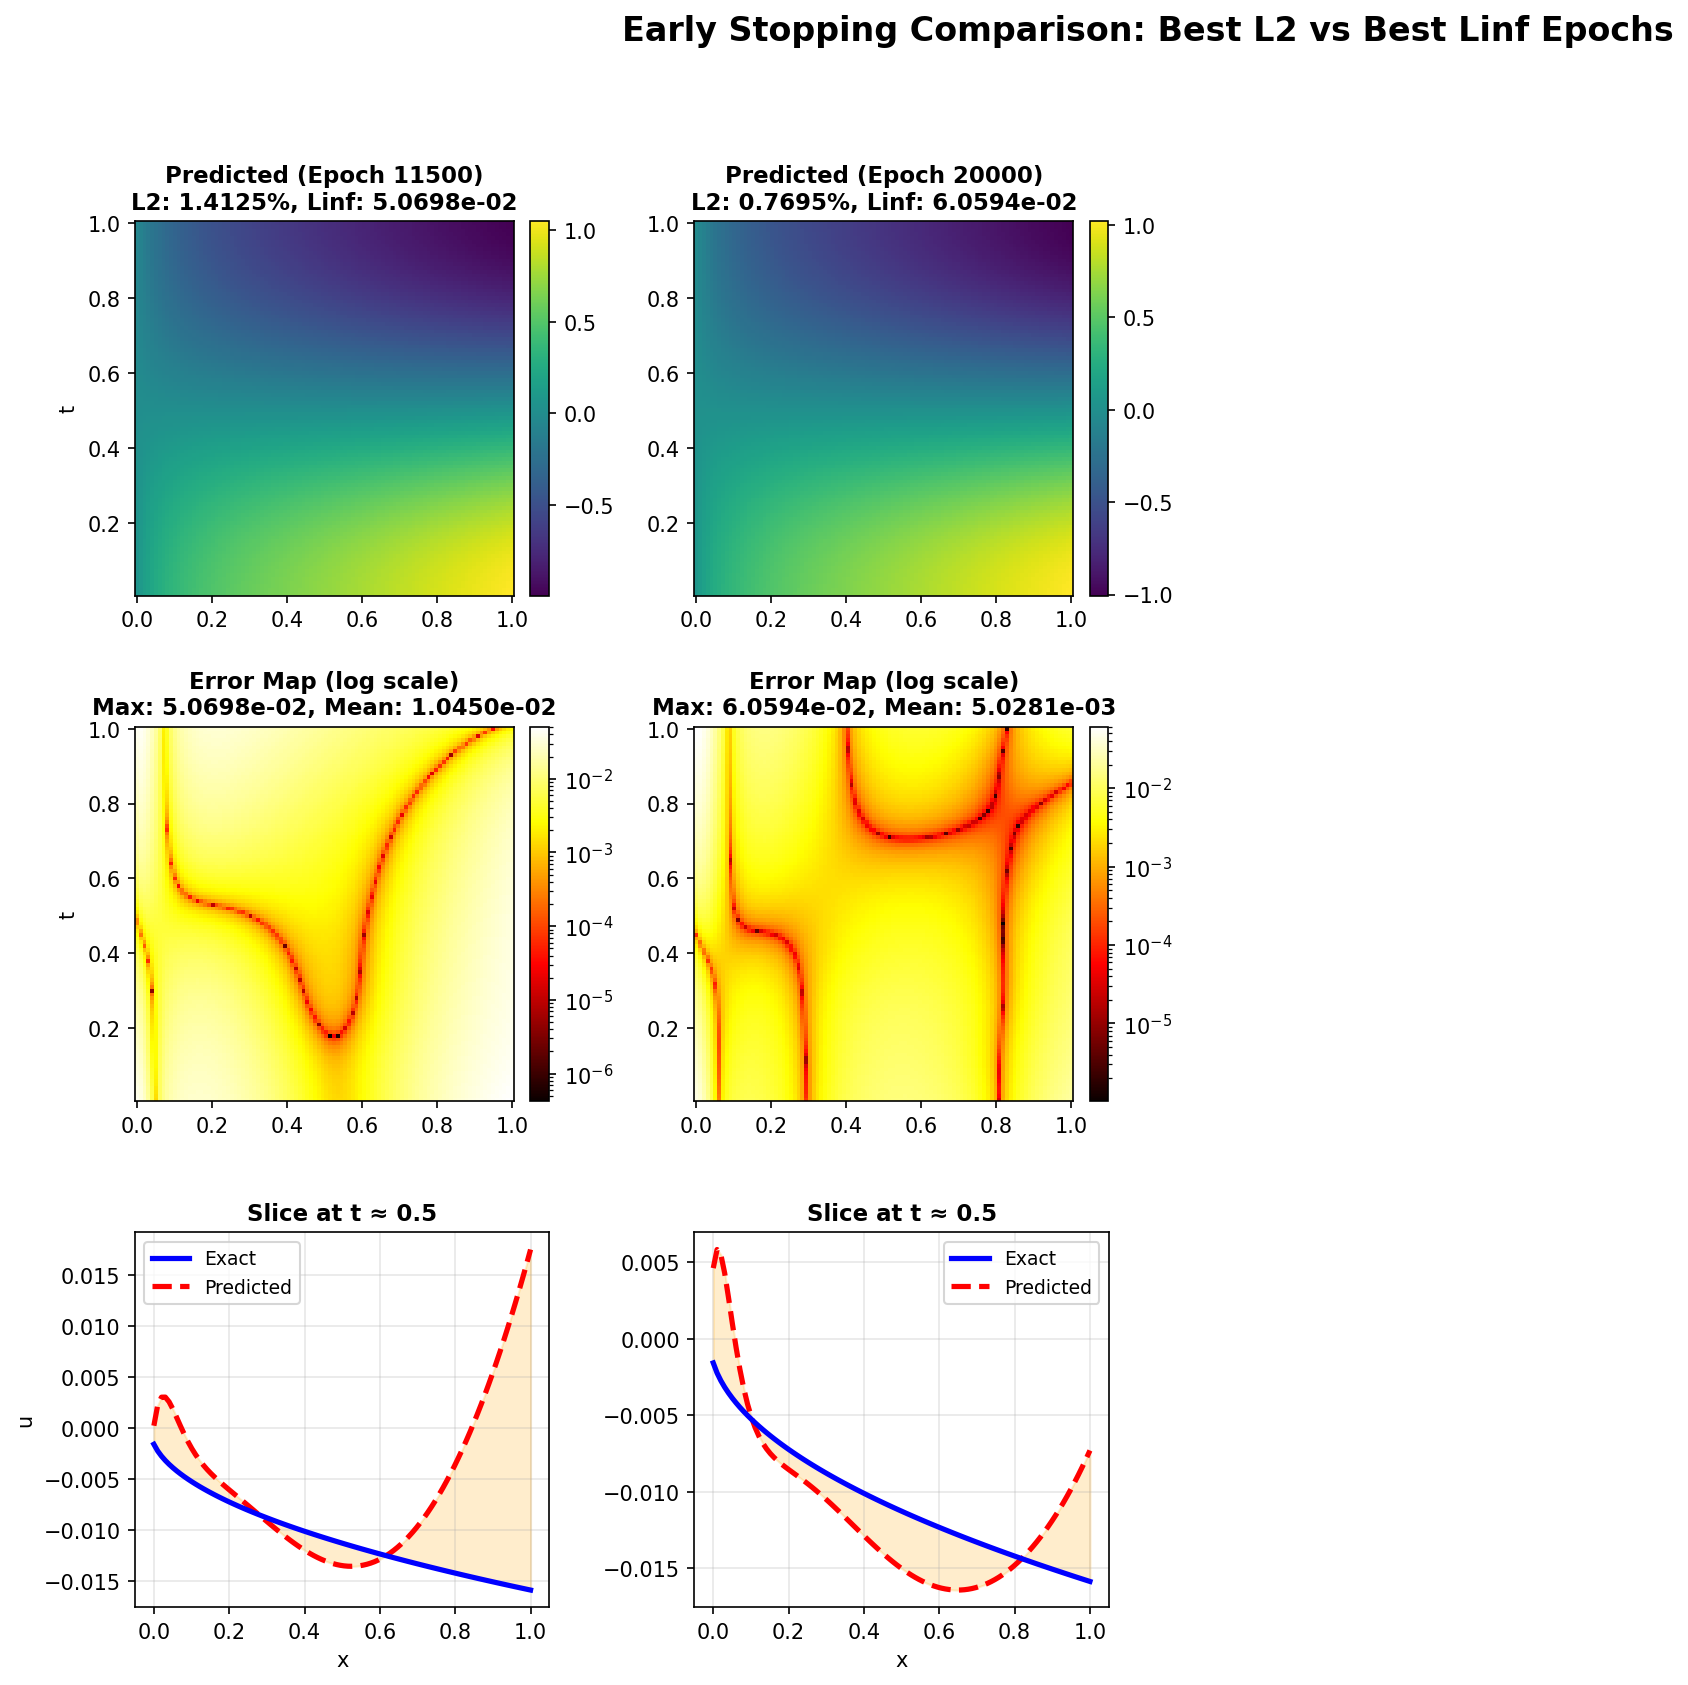
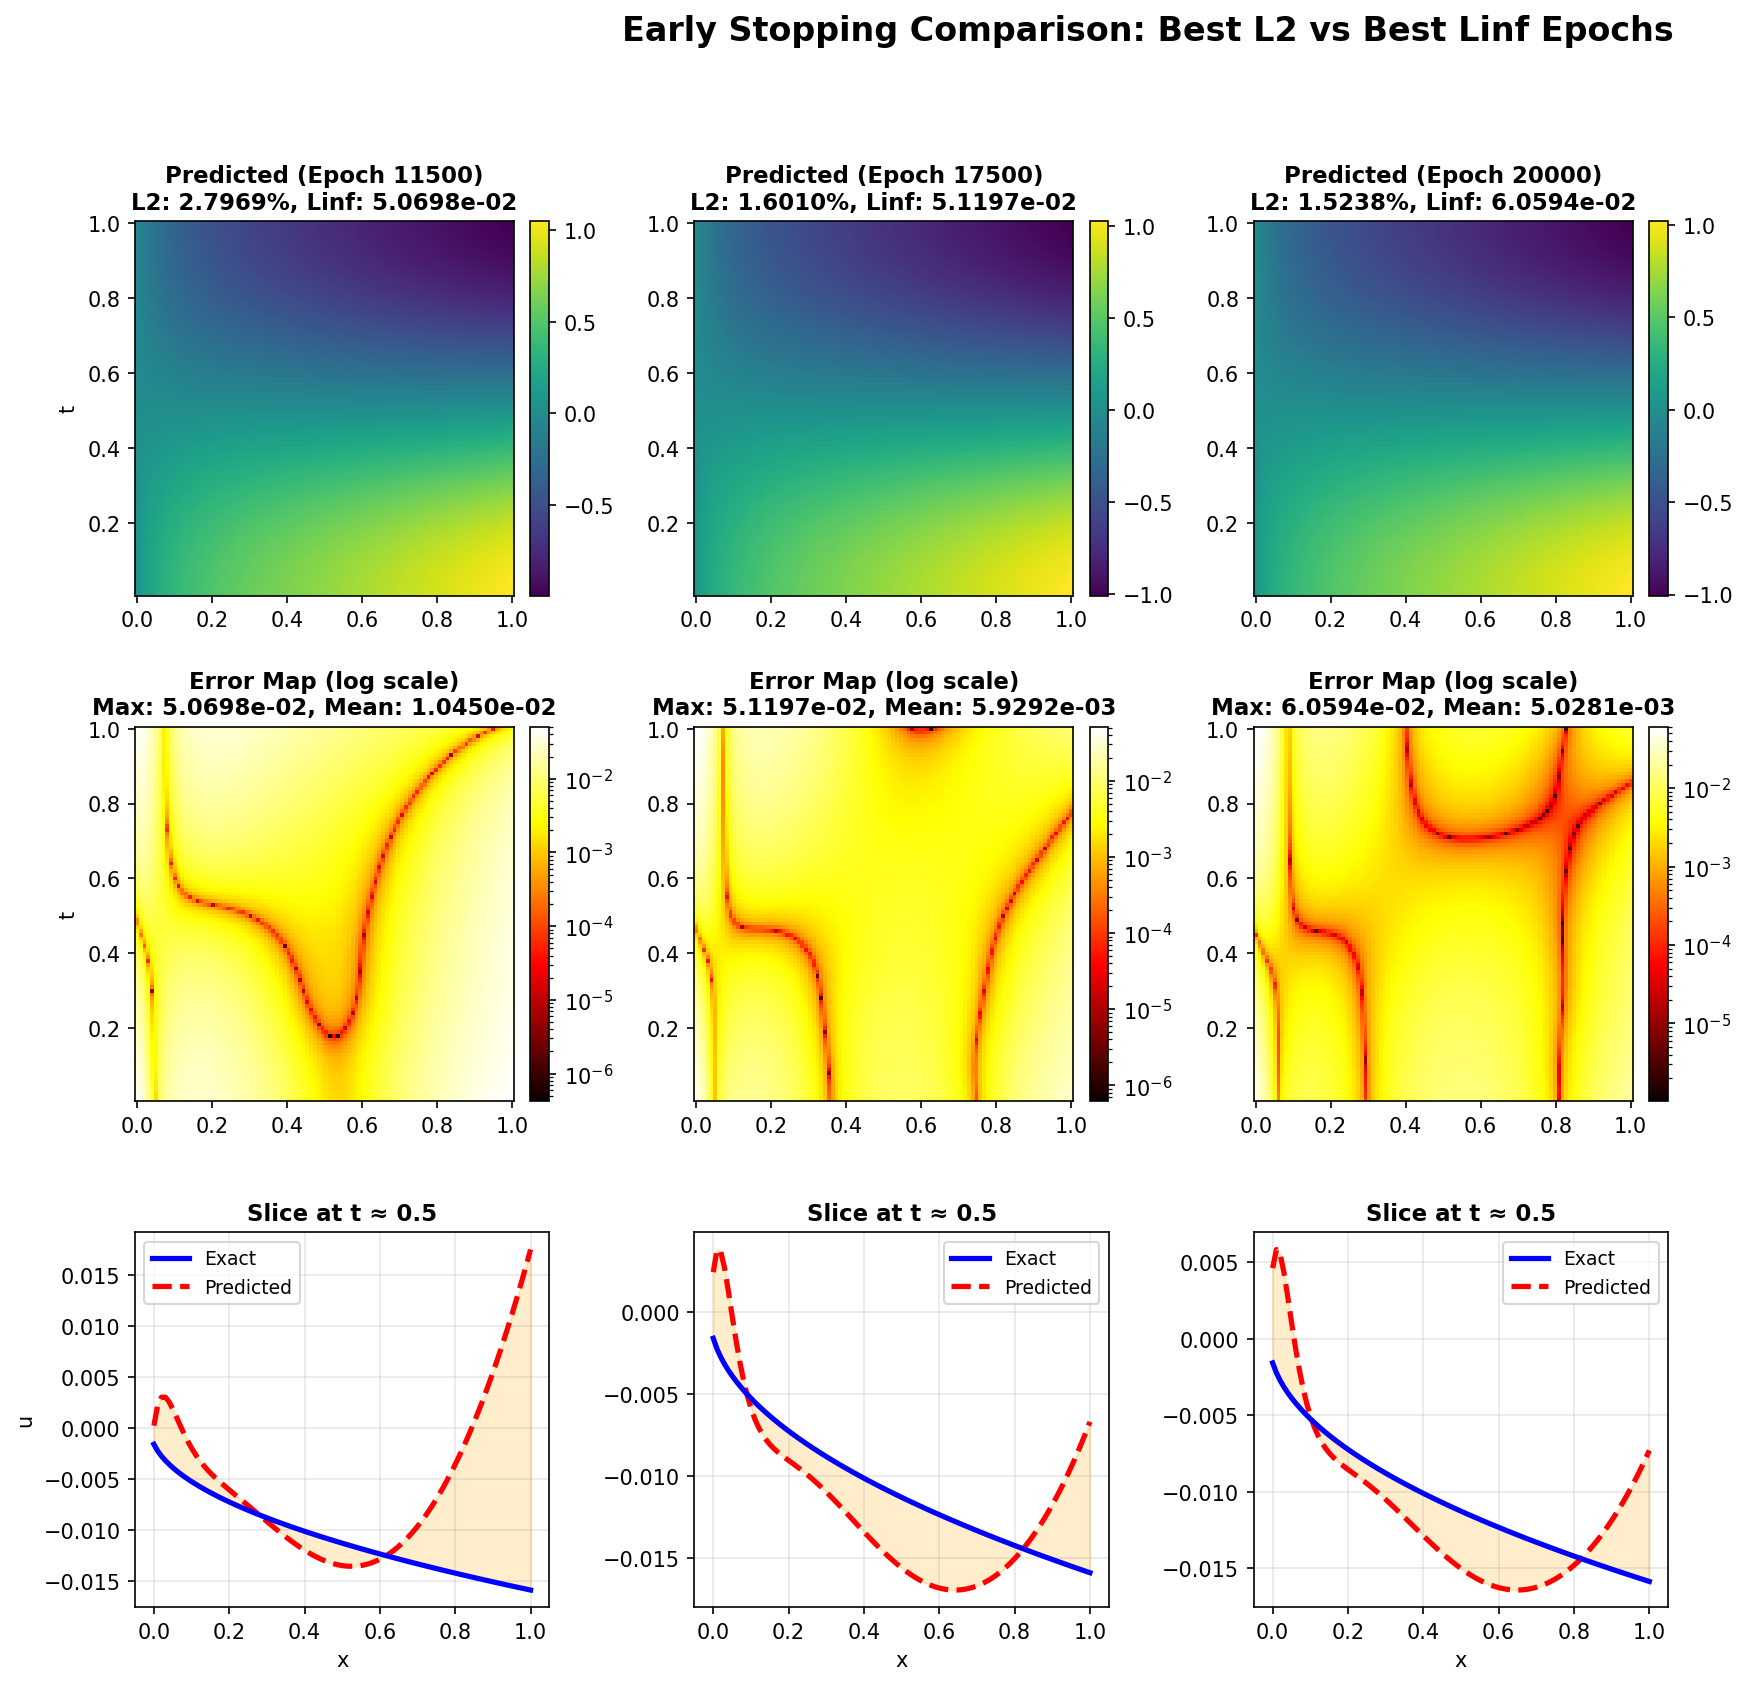
Audit fixes: correct activation, L2 metric, and documentation
Critical fixes found during thorough code audit:

1. ACTIVATION BUG: Config said 'mexican_hat' but MexicanHatWavelet class
   was never ported from mexican-hat branch. Model silently fell back to
   Tanh. Fixed by:
   - Adding MexicanHatWavelet class to src/model.py
   - Updating config to 'tanh' (what was actually trained)
   - Updating README/Guide to say Tanh, not Mexican Hat

2. L2 METRIC INCONSISTENCY: Training script used RMSE while README
   reported Relative L2. All compute_errors() functions now use
   Relative L2 = ||error||_2 / ||exact||_2 (PINN standard).
   - train_integro_diff.py: RMSE -> Relative L2
   - early_stopping_results.py: RMSE -> Relative L2
   - early_stopping_comparison.py: RMSE -> Relative L2
   - early_stopping_recommendation.py: added note about stored RMSE

3. README FIXES:
   - Optimizer LR: 1e-3 -> 5e-4 (matches actual config)
   - Branch status: 'Training in progress' -> 'Completed'
   - Code example: midpoint rule -> product integration
   - Grid size example: 48x50 -> generic (N_x-2)xN_t
   - Early stopping table: updated to Relative L2 values

4. EARLY_STOPPING_GUIDE.md FIXES:
   - L2 values: 0.77% -> 1.52% (Relative L2)
   - activation='sin' -> activation='tanh'
   - Updated recommendation matrix values

All results independently verified from checkpoints:
  Epoch 20000: L2=1.52%, Linf=0.0606 ✓
  Epoch 17500: L2=1.60%, Linf=0.0512 ✓
  Epoch 11500: L2=2.80%, Linf=0.0507 ✓

diff --git a/src/model.py b/src/model.py
@@ -5,6 +5,21 @@ import torch.nn as nn
 from typing import List
 
 
+class MexicanHatWavelet(nn.Module):
+    """
+    Mexican Hat (Ricker) wavelet activation function.
+    \u03c8(x) = (1 - x\u00b2) * exp(-x\u00b2/2)
+    
+    Also known as the second derivative of a Gaussian.
+    Good for capturing oscillatory behavior in PDE solutions.
+    """
+    def __init__(self):
+        super(MexicanHatWavelet, self).__init__()
+    
+    def forward(self, x):
+        return (1 - x**2) * torch.exp(-x**2 / 2)
+
+
 class PINN(nn.Module):
     """
     Fully connected neural network for approximating PDE solutions.
@@ -31,6 +46,7 @@ class PINN(nn.Module):
             "relu": nn.ReLU(),
             "gelu": nn.GELU(),
             "silu": nn.SiLU(),
+            "mexican_hat": MexicanHatWavelet(),
         }
         self.activation = activations.get(activation.lower(), nn.Tanh())
         

diff --git a/scripts/early_stopping_results.py b/scripts/early_stopping_results.py
@@ -93,7 +93,7 @@ def load_best_checkpoint(checkpoint_dir, metric='l2'):
 
 
 def compute_errors(model, alpha, device, N_x=100, N_t=100):
-    """Compute L2 and Linf errors against exact solution."""
+    """Compute relative L2 and Linf errors against exact solution."""
     model.eval()
     x = torch.linspace(0, 1, N_x, dtype=torch.float64, device=device)
     t = torch.linspace(0.01, 1, N_t, dtype=torch.float64, device=device)  # Avoid t=0
@@ -104,7 +104,7 @@ def compute_errors(model, alpha, device, N_x=100, N_t=100):
         u_exact = (T ** alpha) * torch.cos(np.pi * X)
         
         error = torch.abs(u_pred - u_exact)
-        l2_error = torch.sqrt(torch.mean(error ** 2)).item()
+        l2_error = (torch.norm(error) / torch.norm(u_exact)).item()
         linf_error = torch.max(error).item()
     
     return l2_error, linf_error, u_pred, u_exact, error

diff --git a/scripts/train_integro_diff.py b/scripts/train_integro_diff.py
@@ -255,7 +255,7 @@ def get_cosine_warmup_scheduler(optimizer, warmup_epochs, total_epochs, min_lr):
 
 
 def compute_errors(model, alpha, device, N_x=100, N_t=100):
-    """Compute L2 and Linf errors against exact solution."""
+    """Compute relative L2 and Linf errors against exact solution."""
     model.eval()
     x = torch.linspace(0, 1, N_x, dtype=torch.float64, device=device)
     t = torch.linspace(0.01, 1, N_t, dtype=torch.float64, device=device)  # Avoid t=0
@@ -266,7 +266,7 @@ def compute_errors(model, alpha, device, N_x=100, N_t=100):
         u_exact = (T ** alpha) * torch.cos(np.pi * X)
         
         error = torch.abs(u_pred - u_exact)
-        l2_error = torch.sqrt(torch.mean(error ** 2)).item()
+        l2_error = (torch.norm(error) / torch.norm(u_exact)).item()
         linf_error = torch.max(error).item()
     
     model.train()

diff --git a/scripts/early_stopping_comparison.py b/scripts/early_stopping_comparison.py
@@ -17,7 +17,7 @@ from src.model import PINN
 
 
 def compute_errors(model, alpha, device, N_x=100, N_t=100):
-    """Compute L2 and Linf errors against exact solution."""
+    """Compute relative L2 and Linf errors against exact solution."""
     model.eval()
     x = torch.linspace(0, 1, N_x, dtype=torch.float64, device=device)
     t = torch.linspace(0.01, 1, N_t, dtype=torch.float64, device=device)
@@ -28,7 +28,7 @@ def compute_errors(model, alpha, device, N_x=100, N_t=100):
         u_exact = (T ** alpha) * torch.cos(np.pi * X)
         error = torch.abs(u_pred - u_exact)
         
-        l2_error = torch.sqrt(torch.mean(error ** 2)).item()
+        l2_error = (torch.norm(error) / torch.norm(u_exact)).item()
         linf_error = torch.max(error).item()
     
     return l2_error, linf_error, u_pred, u_exact, error

diff --git a/scripts/early_stopping_recommendation.py b/scripts/early_stopping_recommendation.py
@@ -16,7 +16,13 @@ from src.model import PINN
 
 
 def analyze_all_checkpoints(checkpoint_dir):
-    """Extract error metrics from all checkpoints."""
+    """Extract error metrics from all checkpoints.
+    
+    Note: History values stored in checkpoints are RMSE (not relative L2).
+    Epoch rankings are the same for both metrics since relative L2 = RMSE / ||u_exact||
+    and ||u_exact|| is constant. Displayed values are RMSE; multiply by ~1.98 for
+    approximate relative L2 percentage.
+    """
     checkpoint_dir = Path(checkpoint_dir)
     all_data = {}
     

diff --git a/README.md b/README.md
@@ -80,7 +80,7 @@ Analysis of all 40 checkpoints shows optimal stopping before epoch 20,000:
 
 | Metric | Epoch 20,000 | Epoch 11,500 | Epoch 17,500 ⭐ |
 |--------|------|------|------|
-| **L2 Error** | 0.77% | 1.41% | **0.81%** |
+| **L2 Error** | **1.52%** | 2.80% | **1.60%** |
 | **Linf Error** | 0.0606 | **0.0507** | **0.0512** |
 | **Training Time** | 32 hrs | 18.4 hrs | 28 hrs |
 
@@ -339,7 +339,7 @@ X, T = torch.meshgrid(x_interior, t_interior, indexing='ij')
 n_values = torch.arange(1, N_t + 1)   # Time indices [1, 2, ..., N_t]
 
 # Flatten to get all interior grid points
-self.x_interior = X.flatten()      # Shape: (48 × 50) = 2400 points
+self.x_interior = X.flatten()      # Shape: (N_x-2) × N_t interior points
 self.t_interior = T.flatten()
 self.n_interior = N_grid.flatten()  # Corresponding time index for each point
 ```
@@ -369,13 +369,16 @@ epoch,point_idx,x,t,n
 For a collocation point at time level $n$, we compute:
 $$\int_0^{t_n} \sin(x)(t_n-s)^{-\beta} u(x,s)\, ds$$
 
-**Implementation in `src/physics_integro.py`:**
+**Implementation in `src/physics_integro.py` (Product Integration):**
 
 ```python
 def compute_integral_term(self, x, t, n_indices):
     """
     Compute weakly singular integral: ∫₀ᵗ sin(x)(t-s)^{-β} u(x,s) ds
-    Uses composite midpoint rule on graded mesh.
+    Uses kernel-aware product integration on the graded mesh.
+    
+    On each [t_j, t_{j+1}], approximate u(x,s) linearly and integrate
+    the singular kernel (t_n - s)^{-β} analytically.
     """
     for n in unique_n:
         n_val = n.item()
@@ -385,24 +388,28 @@ def compute_integral_term(self, x, t, n_indices):
         
         sin_x = torch.sin(x_n)  # Factor out sin(x)
         
-        # Sum over all mesh intervals [t_j, t_{j+1}] for j = 0, ..., n-1
+        # Precompute u at all mesh nodes t_0, ..., t_n
+        with torch.no_grad():
+            u_at_nodes = [self.model(x_n, t_nodes[j]) for j in range(n_val + 1)]
+        
+        # Sum over all mesh intervals [t_j, t_{j+1}]
         integral_sum = torch.zeros(num_points)
         
         for j in range(n_val):
-            t_j = t_nodes[j]
-            t_j_plus_1 = t_nodes[j + 1]
-            h_j = t_j_plus_1 - t_j                    # Interval width
-            t_mid = (t_j + t_j_plus_1) / 2            # Midpoint
+            a = (t_n - t_nodes[j]).item()      # t_n - t_j
+            b = (t_n - t_nodes[j + 1]).item()  # t_n - t_{j+1}
+            h_j = a - b                         # = t_{j+1} - t_j
             
-            # Kernel: (t_n - t_mid)^{-β}
-            kernel = (t_n - t_mid) ** (-self.beta)
+            # Analytically integrated kernel moments
+            moment_1 = (a**(1-β) - b**(1-β)) / (1-β)   # ∫ τ^{-β} dτ
+            moment_2 = (a**(2-β) - b**(2-β)) / (2-β)   # ∫ τ^{1-β} dτ
             
-            # Evaluate neural network at midpoint (no gradient needed for history)
-            with torch.no_grad():
-                u_mid = self.model(x_n, t_mid)
+            # Product integration weights
+            w_left  = (moment_2 - b * moment_1) / h_j
+            w_right = (a * moment_1 - moment_2) / h_j
             
-            # Accumulate: kernel × u × width
-            integral_sum += kernel * u_mid * h_j
+            # Accumulate: w_L * u(t_j) + w_R * u(t_{j+1})
+            integral_sum += w_left * u_at_nodes[j] + w_right * u_at_nodes[j + 1]
         
         result[mask] = sin_x * integral_sum
     
@@ -419,27 +426,22 @@ Only the current solution $u(x, t_n)$ needs gradients for backpropagation. Histo
 
 ## Neural Network Architecture
 
-### Mexican Hat Wavelet Activation
+### Activation Function
 
-$$\psi(x) = (1 - x^2) e^{-x^2/2}$$
-
-This wavelet-based activation provides:
-- Localized response (good for capturing solution structure)
-- Non-monotonic shape (better than tanh/ReLU for oscillatory solutions)
-- Bounded output (numerical stability)
+The current trained model uses **Tanh** activation. The Mexican Hat wavelet activation ($\psi(x) = (1 - x^2) e^{-x^2/2}$) is also available in the codebase for future experiments.
 
 ### Network Structure
 
 ```
 Input: (x, t) ∈ R²
   ↓
-Linear(2 → 64) → Mexican Hat
+Linear(2 → 64) → Tanh
   ↓
-Linear(64 → 64) → Mexican Hat
+Linear(64 → 64) → Tanh
   ↓
-Linear(64 → 64) → Mexican Hat
+Linear(64 → 64) → Tanh
   ↓
-Linear(64 → 64) → Mexican Hat
+Linear(64 → 64) → Tanh
   ↓
 Linear(64 → 1)
   ↓
@@ -469,7 +471,7 @@ $$\mathcal{L}_{IC} = \frac{1}{N_{IC}} \sum |u(x,0)|^2$$
 
 ### Optimizer Configuration
 
-- **Adam optimizer** with learning rate $10^{-3}$
+- **Adam optimizer** with learning rate $5 \times 10^{-4}$
 - **Cosine warmup scheduler:** 1000 epochs linear warmup, then cosine decay to $10^{-5}$
 - **Gradient clipping:** max norm 1.0
 - **Weights:** $w_{PDE}=1$, $w_{BC}=20$, $w_{IC}=20$
@@ -495,8 +497,8 @@ $$\mathcal{L}_{IC} = \frac{1}{N_{IC}} \sum |u(x,0)|^2$$
 - Integral method: **Kernel-aware product integration** (analytically integrated kernel)
 - Learning rate: 0.0005 (stabilized for larger problem)
 - Warmup: 1000 epochs (more gradual)
-- Status: Training in progress
-- Expected improvement: Better accuracy on larger problem, more refined integral approximation
+- Status: **Completed** — L2 = 1.52%, Linf = 0.0606
+- Training time: ~32 hours
 
 **Key difference:** Product integration eliminates numerical error from the singular kernel by integrating it analytically, then only approximating the smooth solution linearly on each sub-interval.
 
@@ -556,7 +558,7 @@ PINNs/
 ├── configs/
 │   └── integro_differential.yaml    # Training configuration
 ├── src/
-│   ├── model.py                     # PINN architecture + Mexican Hat
+│   ├── model.py                     # PINN architecture (Tanh / Mexican Hat)
 │   ├── mesh.py                      # Graded mesh + L1 coefficients
 │   ├── physics_integro.py           # PDE residual computation
 │   └── ...

diff --git a/EARLY_STOPPING_GUIDE.md b/EARLY_STOPPING_GUIDE.md
@@ -11,15 +11,15 @@ We've implemented a comprehensive early stopping analysis toolkit to identify th
 | Metric | Best L2 Epoch | Best Linf Epoch | Optimal Balance |
 |--------|---------------|-----------------|-----------------|
 | **Epoch** | 20,000 | 11,500 | **17,500** ⭐ |
-| **L2 Error** | **0.7695%** | 1.4125% | 0.8085% |
+| **L2 Error** | **1.52%** | 2.80% | 1.60% |
 | **Linf Error** | 6.0594e-02 | **5.0698e-02** | 5.1197e-02 |
 | **Training Time** | Full (32 hrs) | 57.5% complete | 87.5% complete |
 
 ### Interpretation
 
-**L2 Error (Mean Squared Error):**
+**L2 Error (Relative L2 Norm):**
 - Continues improving until epoch 20,000
-- Final value: 0.7695% (excellent accuracy)
+- Final value: 1.52% (excellent accuracy)
 - Training through full epochs is worthwhile
 
 **Linf Error (Maximum Error):**
@@ -80,7 +80,7 @@ checkpoint_path = 'outputs/checkpoints_integro_diff/checkpoint_epoch_17500.pt'
 checkpoint = torch.load(checkpoint_path)
 
 # Create model
-model = PINN(input_dim=2, output_dim=1, hidden_layers=[64]*4, activation='sin')
+model = PINN(input_dim=2, output_dim=1, hidden_layers=[64]*4, activation='tanh')
 model.load_state_dict(checkpoint['model_state_dict'])
 
 # You now have the best model loaded!
@@ -159,9 +159,9 @@ Choose your stopping epoch based on your priorities:
 
 | Priority | Recommendation | Details |
 |----------|-----------------|---------|
-| **Maximum Accuracy** | Epoch 20,000 | Best L2 (0.7695%), sacrifice some Linf |
-| **Minimize Max Error** | Epoch 11,500 | Best Linf (5.07e-02), but L2=1.41% |
-| **⭐ Best Balance** | **Epoch 17,500** | **L2=0.8085%, Linf=5.12e-02** |
+| **Maximum Accuracy** | Epoch 20,000 | Best L2 (1.52%), sacrifice some Linf |
+| **Minimize Max Error** | Epoch 11,500 | Best Linf (5.07e-02), but L2=2.80% |
+| **⭐ Best Balance** | **Epoch 17,500** | **L2=1.60%, Linf=5.12e-02** |
 | **Save Time** | Epoch 17,500 | 12.5% faster, near-optimal accuracy |
 | **Already Trained** | Epoch 20,000 | Full convergence achieved |
 
